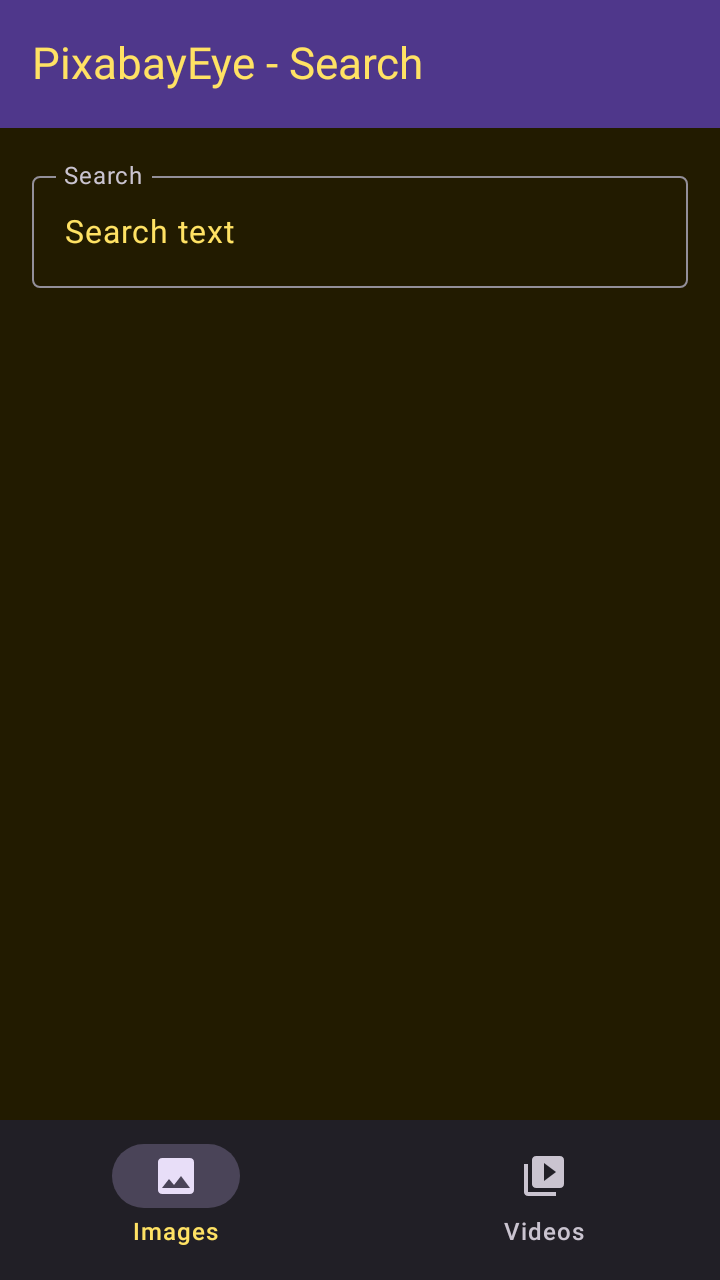
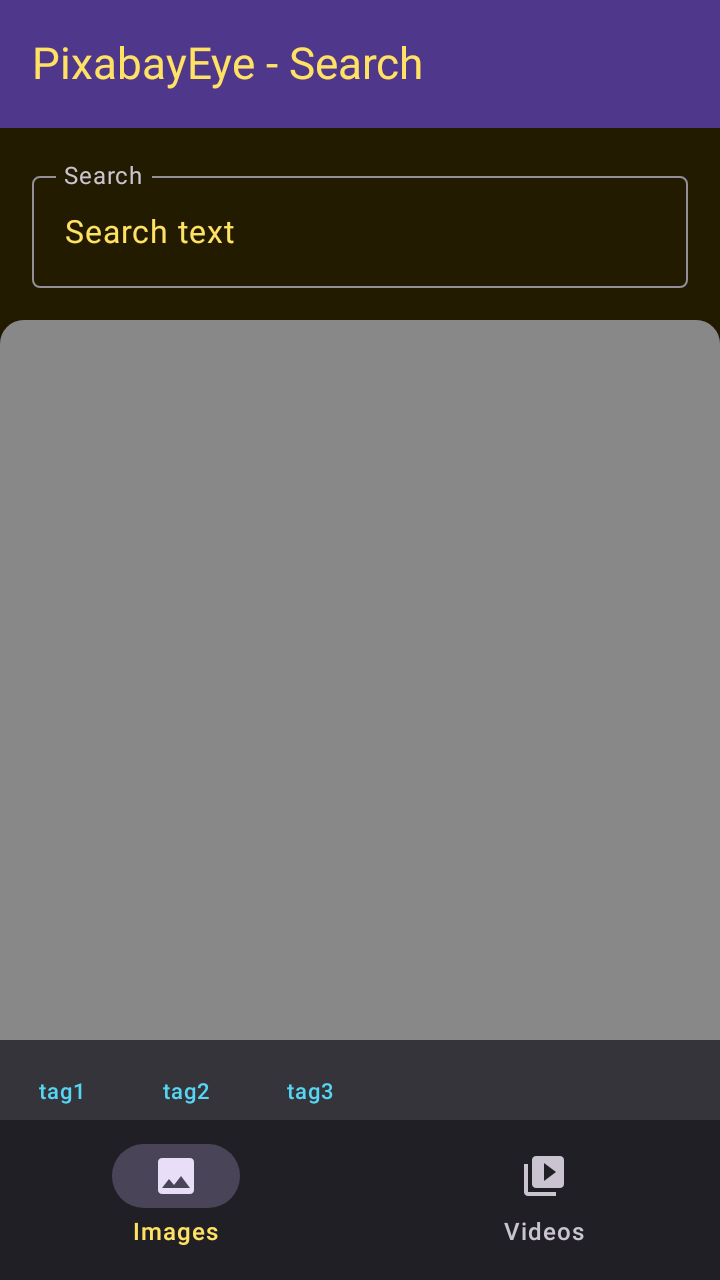
Add tags to image list items

diff --git a/ui/uiImageList/src/commonMain/kotlin/siarhei/luskanau/pixabayeye/ui/image/list/ImageListScreen.kt b/ui/uiImageList/src/commonMain/kotlin/siarhei/luskanau/pixabayeye/ui/image/list/ImageListScreen.kt
@@ -4,16 +4,23 @@ import androidx.compose.foundation.clickable
 import androidx.compose.foundation.layout.Arrangement
 import androidx.compose.foundation.layout.Box
 import androidx.compose.foundation.layout.Column
+import androidx.compose.foundation.layout.PaddingValues
 import androidx.compose.foundation.layout.aspectRatio
 import androidx.compose.foundation.layout.fillMaxWidth
 import androidx.compose.foundation.layout.padding
 import androidx.compose.foundation.layout.size
+import androidx.compose.foundation.lazy.LazyRow
+import androidx.compose.foundation.lazy.items
 import androidx.compose.foundation.lazy.staggeredgrid.StaggeredGridCells
 import androidx.compose.foundation.lazy.staggeredgrid.itemsIndexed
+import androidx.compose.material3.Card
+import androidx.compose.material3.CardDefaults
 import androidx.compose.material3.Icon
+import androidx.compose.material3.MaterialTheme
 import androidx.compose.material3.OutlinedTextField
 import androidx.compose.material3.Scaffold
 import androidx.compose.material3.Text
+import androidx.compose.material3.TextButton
 import androidx.compose.runtime.Composable
 import androidx.compose.runtime.collectAsState
 import androidx.compose.runtime.getValue
@@ -23,6 +30,7 @@ import androidx.compose.ui.graphics.Color
 import androidx.compose.ui.graphics.painter.ColorPainter
 import androidx.compose.ui.layout.ContentScale
 import androidx.compose.ui.platform.testTag
+import androidx.compose.ui.text.style.TextOverflow
 import androidx.compose.ui.unit.dp
 import androidx.lifecycle.viewmodel.compose.viewModel
 import coil3.compose.AsyncImage
@@ -40,6 +48,7 @@ import siarhei.luskanau.pixabayeye.common.PixabayBottomBar
 import siarhei.luskanau.pixabayeye.common.PixabayTopAppBar
 import siarhei.luskanau.pixabayeye.common.theme.AppTheme
 import siarhei.luskanau.pixabayeye.core.network.HitModel
+import siarhei.luskanau.pixabayeye.core.network.testData
 import siarhei.luskanau.pixabayeye.ui.common.resources.Res
 import siarhei.luskanau.pixabayeye.ui.common.resources.ic_ai
 import siarhei.luskanau.pixabayeye.ui.common.resources.screen_name_search
@@ -107,44 +116,81 @@ internal fun ImageListContent(
                 itemsIndexed(
                     paginationState.allItems.orEmpty()
                 ) { _, hitModel ->
-                    Box(
+                    Card(
                         modifier = Modifier
                             .fillMaxWidth()
-                            .aspectRatio(
-                                ratio =
-                                requireNotNull(
-                                    hitModel.imageModel?.middleImageWidth
-                                ).toFloat() /
-                                    requireNotNull(
-                                        hitModel.imageModel?.middleImageHeight
-                                    ).toFloat()
-                            )
                             .clickable {
                                 onEvent(ImageListViewEvent.ImageClicked(hitModel = hitModel))
-                            }
+                            },
+                        elevation = CardDefaults.cardElevation(defaultElevation = 4.dp)
                     ) {
-                        AsyncImage(
-                            model = ImageRequest.Builder(LocalPlatformContext.current)
-                                .data(hitModel.imageModel?.middleImageUrl.orEmpty())
-                                .build(),
-                            contentDescription = hitModel.tags,
-                            placeholder = ColorPainter(Color.Gray),
-                            error = ColorPainter(Color.Red),
-                            contentScale = ContentScale.FillWidth,
-                            modifier = Modifier.fillMaxWidth()
-                        )
-                        if (hitModel.isAiGenerated) {
-                            Icon(
-                                imageVector = vectorResource(Res.drawable.ic_ai),
-                                contentDescription = null,
+                        Column {
+                            Box(
                                 modifier = Modifier
-                                    .align(Alignment.TopEnd)
-                                    .padding(8.dp)
-                                    .size(24.dp),
-                                tint = Color.White
+                                    .fillMaxWidth()
+                                    .aspectRatio(
+                                        ratio =
+                                        requireNotNull(
+                                            hitModel.imageModel?.middleImageWidth
+                                        ).toFloat() /
+                                            requireNotNull(
+                                                hitModel.imageModel?.middleImageHeight
+                                            ).toFloat()
+                                    )
+                            ) {
+                                AsyncImage(
+                                    model = ImageRequest.Builder(LocalPlatformContext.current)
+                                        .data(hitModel.imageModel?.middleImageUrl.orEmpty())
+                                        .build(),
+                                    contentDescription = hitModel.tags,
+                                    placeholder = ColorPainter(Color.Gray),
+                                    error = ColorPainter(Color.Red),
+                                    contentScale = ContentScale.FillWidth,
+                                    modifier = Modifier.fillMaxWidth()
+                                )
+                                if (hitModel.isAiGenerated) {
+                                    Icon(
+                                        imageVector = vectorResource(Res.drawable.ic_ai),
+                                        contentDescription = null,
+                                        modifier = Modifier
+                                            .align(Alignment.TopEnd)
+                                            .padding(8.dp)
+                                            .size(24.dp),
+                                        tint = Color.White
+                                    )
+                                }
+                            }
+                            TagsContent(
+                                tagsString = hitModel.tags,
+                                onTagClick = { tag ->
+                                    onEvent(ImageListViewEvent.TagClicked(tag = tag))
+                                }
                             )
                         }
                     }
+                }
+            }
+        }
+    }
+}
+
+@Composable
+private fun TagsContent(tagsString: String?, onTagClick: (String) -> Unit) {
+    val tags = tagsString.orEmpty().split(",").map { it.trim() }.filter { it.isNotEmpty() }
+    if (tags.isNotEmpty()) {
+        LazyRow {
+            items(tags) { tag ->
+                TextButton(
+                    onClick = { onTagClick(tag) },
+                    modifier = Modifier.padding(horizontal = 2.dp, vertical = 2.dp),
+                    contentPadding = PaddingValues(horizontal = 6.dp, vertical = 2.dp)
+                ) {
+                    Text(
+                        text = tag,
+                        maxLines = 1,
+                        overflow = TextOverflow.Ellipsis,
+                        style = MaterialTheme.typography.labelSmall
+                    )
                 }
             }
         }
@@ -159,7 +205,7 @@ internal fun ImageListContentPreview() = AppTheme {
             initialPageKey = 1,
             onRequestPage = {
                 appendPage(
-                    items = listOf(),
+                    items = listOf(testData),
                     nextPageKey = 2,
                     isLastPage = true
                 )

diff --git a/ui/uiImageDetails/src/commonMain/kotlin/siarhei/luskanau/pixabayeye/ui/image/details/ImageDetailsDetailsScreen.kt b/ui/uiImageDetails/src/commonMain/kotlin/siarhei/luskanau/pixabayeye/ui/image/details/ImageDetailsDetailsScreen.kt
@@ -32,8 +32,7 @@ import org.jetbrains.compose.resources.stringResource
 import org.jetbrains.compose.ui.tooling.preview.Preview
 import siarhei.luskanau.pixabayeye.common.PixabayTopAppBar
 import siarhei.luskanau.pixabayeye.common.theme.AppTheme
-import siarhei.luskanau.pixabayeye.core.network.HitModel
-import siarhei.luskanau.pixabayeye.core.network.ImageHitModel
+import siarhei.luskanau.pixabayeye.core.network.testData
 import siarhei.luskanau.pixabayeye.ui.common.resources.Res
 import siarhei.luskanau.pixabayeye.ui.common.resources.screen_name_search
 
@@ -128,40 +127,7 @@ internal fun ImageDetailsLoadingContentPreview() = AppTheme {
 internal fun ImageDetailsSuccessContentPreview() = AppTheme {
     ImageDetailsContent(
         viewState = MutableStateFlow(
-            ImageDetailsViewState.Success(
-                HitModel(
-                    id = 123,
-                    pageURL = "",
-                    type = "photo",
-                    tags = "tag1, tag2, tag3",
-                    views = 1,
-                    comments = 300,
-                    downloads = 200,
-                    likes = 100,
-                    userId = 456,
-                    userName = "John Doe",
-                    userImageURL = "",
-                    noAiTraining = false,
-                    isAiGenerated = false,
-                    isGRated = false,
-                    // isLowQuality = false,
-                    userURL = "John Doe",
-                    imageModel = ImageHitModel(
-                        previewUrl = "https://example.com/preview.jpg",
-                        previewHeight = 100,
-                        previewWidth = 100,
-                        middleImageUrl = "https://example.com/middle.jpg",
-                        middleImageHeight = 200,
-                        middleImageWidth = 200,
-                        largeImageUrl = "https://example.com/large.jpg",
-                        imageWidth = 600,
-                        imageHeight = 600,
-                        imageSize = 12345,
-                        collections = 0
-                    ),
-                    videosModel = null
-                )
-            )
+            ImageDetailsViewState.Success(testData)
         ),
         onEvent = {}
     )

diff --git a/ui/uiVideoDetails/src/commonMain/kotlin/siarhei/luskanau/pixabayeye/ui/video/details/VideoDetailsScreen.kt b/ui/uiVideoDetails/src/commonMain/kotlin/siarhei/luskanau/pixabayeye/ui/video/details/VideoDetailsScreen.kt
@@ -32,8 +32,7 @@ import org.jetbrains.compose.resources.stringResource
 import org.jetbrains.compose.ui.tooling.preview.Preview
 import siarhei.luskanau.pixabayeye.common.PixabayTopAppBar
 import siarhei.luskanau.pixabayeye.common.theme.AppTheme
-import siarhei.luskanau.pixabayeye.core.network.HitModel
-import siarhei.luskanau.pixabayeye.core.network.VideoHitModel
+import siarhei.luskanau.pixabayeye.core.network.testData
 import siarhei.luskanau.pixabayeye.ui.common.resources.Res
 import siarhei.luskanau.pixabayeye.ui.common.resources.screen_name_search
 
@@ -138,36 +137,7 @@ internal fun VideoDetailsLoadingContentPreview() = AppTheme {
 internal fun VideoDetailsSuccessContentPreview() = AppTheme {
     VideoDetailsContent(
         viewState = MutableStateFlow(
-            VideoDetailsViewState.Success(
-                HitModel(
-                    id = 123,
-                    pageURL = "",
-                    type = "photo",
-                    tags = "tag1, tag2, tag3",
-                    views = 1,
-                    comments = 300,
-                    downloads = 200,
-                    likes = 100,
-                    userId = 456,
-                    userName = "John Doe",
-                    userImageURL = "",
-                    noAiTraining = false,
-                    isAiGenerated = false,
-                    isGRated = false,
-                    // isLowQuality = false,
-                    userURL = "John Doe",
-                    imageModel = null,
-                    videosModel = mapOf(
-                        "large" to VideoHitModel(
-                            url = "https://example.com/video.mp4",
-                            width = 1304,
-                            height = 719,
-                            size = 6621423,
-                            thumbnail = "https://example.com/preview.jpg"
-                        )
-                    )
-                )
-            )
+            VideoDetailsViewState.Success(testData)
         ),
         onEvent = {}
     )

diff --git a/ui/uiImageList/src/commonMain/kotlin/siarhei/luskanau/pixabayeye/ui/image/list/ImageListViewModel.kt b/ui/uiImageList/src/commonMain/kotlin/siarhei/luskanau/pixabayeye/ui/image/list/ImageListViewModel.kt
@@ -16,10 +16,11 @@ import siarhei.luskanau.pixabayeye.core.network.PixabayApiService
 @Factory
 class ImageListViewModel(
     @InjectedParam private val searchNavigationCallback: ImageListNavigationCallback,
+    @InjectedParam private val initialSearchTerm: String?,
     @Provided private val pixabayApiService: PixabayApiService
 ) : ViewModel() {
 
-    private val _searchTermFlow = MutableStateFlow("")
+    private val _searchTermFlow = MutableStateFlow(initialSearchTerm.orEmpty())
     val searchTermFlow: Flow<String> get() = _searchTermFlow
 
     val paginationState: PaginationState<Int, HitModel> = PaginationState(
@@ -34,6 +35,8 @@ class ImageListViewModel(
             ImageListViewEvent.DebugScreenClicked -> searchNavigationCallback.onDebugScreenClicked()
             is ImageListViewEvent.ImageClicked ->
                 searchNavigationCallback.onSearchScreenImageClicked(imageId = event.hitModel.id)
+            is ImageListViewEvent.TagClicked ->
+                searchNavigationCallback.onImageTagClicked(tag = event.tag)
             is ImageListViewEvent.UpdateSearchTerm -> viewModelScope.launch {
                 _searchTermFlow.emit(event.searchTerm)
                 paginationState.refresh()

diff --git a/core/coreNetwork/src/commonMain/kotlin/siarhei/luskanau/pixabayeye/core/network/PixabayApiService.kt b/core/coreNetwork/src/commonMain/kotlin/siarhei/luskanau/pixabayeye/core/network/PixabayApiService.kt
@@ -60,3 +60,44 @@ data class VideoHitModel(
     val size: Int,
     val thumbnail: String
 )
+
+val testData = HitModel(
+    id = 123,
+    pageURL = "",
+    type = "photo",
+    tags = "tag1, tag2, tag3",
+    views = 1,
+    comments = 300,
+    downloads = 200,
+    likes = 100,
+    userId = 456,
+    userName = "John Doe",
+    userImageURL = "",
+    noAiTraining = false,
+    isAiGenerated = false,
+    isGRated = false,
+    // isLowQuality = false,
+    userURL = "John Doe",
+    imageModel = ImageHitModel(
+        previewUrl = "https://example.com/preview.jpg",
+        previewHeight = 100,
+        previewWidth = 100,
+        middleImageUrl = "https://example.com/middle.jpg",
+        middleImageHeight = 200,
+        middleImageWidth = 200,
+        largeImageUrl = "https://example.com/large.jpg",
+        imageWidth = 600,
+        imageHeight = 600,
+        imageSize = 12345,
+        collections = 0
+    ),
+    videosModel = mapOf(
+        "large" to VideoHitModel(
+            url = "https://example.com/video.mp4",
+            width = 1304,
+            height = 719,
+            size = 6621423,
+            thumbnail = "https://example.com/preview.jpg"
+        )
+    )
+)

diff --git a/navigation/src/commonMain/kotlin/siarhei/luskanau/pixabayeye/navigation/App.kt b/navigation/src/commonMain/kotlin/siarhei/luskanau/pixabayeye/navigation/App.kt
@@ -37,11 +37,12 @@ fun App() = AppTheme {
     val appNavigation = AppNavigation(navHostController = navHostController)
     NavHost(
         navController = navHostController,
-        startDestination = AppRoutes.ImageList
+        startDestination = AppRoutes.ImageList(searchTerm = null)
     ) {
         composable<AppRoutes.ImageList> {
+            val args: AppRoutes.ImageList = it.toRoute()
             ImageListScreen(
-                viewModelProvider = { koin.get { parametersOf(appNavigation) } },
+                viewModelProvider = { koin.get { parametersOf(appNavigation, args.searchTerm) } },
                 onImagesClick = { navHostController.navigate(AppRoutes.ImageList) },
                 onVideosClick = { navHostController.navigate(AppRoutes.VideoList) }
             )
@@ -72,7 +73,7 @@ fun App() = AppTheme {
 internal sealed interface AppRoutes {
 
     @Serializable
-    data object ImageList : AppRoutes
+    data class ImageList(val searchTerm: String?) : AppRoutes
 
     @Serializable
     data class ImageDetails(val imageId: Long) : AppRoutes

diff --git a/ui/uiVideoList/src/commonMain/kotlin/siarhei/luskanau/pixabayeye/ui/video/list/VideoListScreen.kt b/ui/uiVideoList/src/commonMain/kotlin/siarhei/luskanau/pixabayeye/ui/video/list/VideoListScreen.kt
@@ -35,6 +35,7 @@ import siarhei.luskanau.pixabayeye.common.PixabayBottomBar
 import siarhei.luskanau.pixabayeye.common.PixabayTopAppBar
 import siarhei.luskanau.pixabayeye.common.theme.AppTheme
 import siarhei.luskanau.pixabayeye.core.network.HitModel
+import siarhei.luskanau.pixabayeye.core.network.testData
 import siarhei.luskanau.pixabayeye.ui.common.resources.Res
 import siarhei.luskanau.pixabayeye.ui.common.resources.screen_name_search
 
@@ -133,7 +134,7 @@ internal fun VideoListContentPreview() = AppTheme {
             initialPageKey = 1,
             onRequestPage = {
                 appendPage(
-                    items = listOf(),
+                    items = listOf(testData),
                     nextPageKey = 2,
                     isLastPage = true
                 )

diff --git a/navigation/src/commonMain/kotlin/siarhei/luskanau/pixabayeye/navigation/AppNavigation.kt b/navigation/src/commonMain/kotlin/siarhei/luskanau/pixabayeye/navigation/AppNavigation.kt
@@ -23,6 +23,12 @@ class AppNavigation(private val navHostController: NavHostController) :
         )
     }
 
+    override fun onImageTagClicked(tag: String) {
+        navHostController.navigate(
+            AppRoutes.ImageList(searchTerm = tag)
+        )
+    }
+
     override fun onVideoListScreenVideoClicked(videoId: Long) {
         navHostController.navigate(
             AppRoutes.VideoDetails(videoId = videoId)

diff --git a/ui/uiImageList/src/commonMain/kotlin/siarhei/luskanau/pixabayeye/ui/image/list/ImageListViewEvent.kt b/ui/uiImageList/src/commonMain/kotlin/siarhei/luskanau/pixabayeye/ui/image/list/ImageListViewEvent.kt
@@ -5,5 +5,6 @@ import siarhei.luskanau.pixabayeye.core.network.HitModel
 sealed interface ImageListViewEvent {
     data class UpdateSearchTerm(val searchTerm: String) : ImageListViewEvent
     data class ImageClicked(val hitModel: HitModel) : ImageListViewEvent
+    data class TagClicked(val tag: String) : ImageListViewEvent
     object DebugScreenClicked : ImageListViewEvent
 }

diff --git a/ui/uiImageList/src/commonMain/kotlin/siarhei/luskanau/pixabayeye/ui/image/list/ImageListNavigationCallback.kt b/ui/uiImageList/src/commonMain/kotlin/siarhei/luskanau/pixabayeye/ui/image/list/ImageListNavigationCallback.kt
@@ -2,5 +2,6 @@ package siarhei.luskanau.pixabayeye.ui.image.list
 
 interface ImageListNavigationCallback {
     fun onSearchScreenImageClicked(imageId: Long)
+    fun onImageTagClicked(tag: String)
     fun onDebugScreenClicked()
 }
